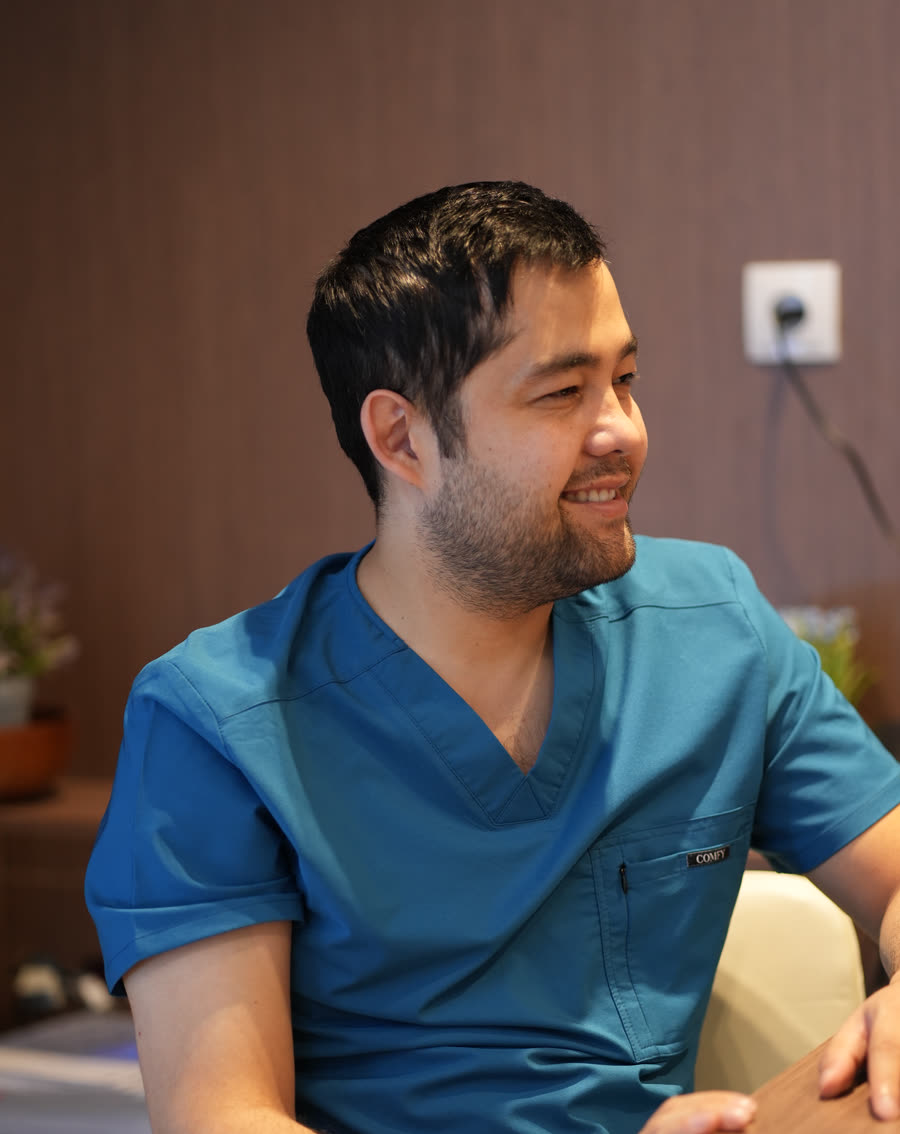
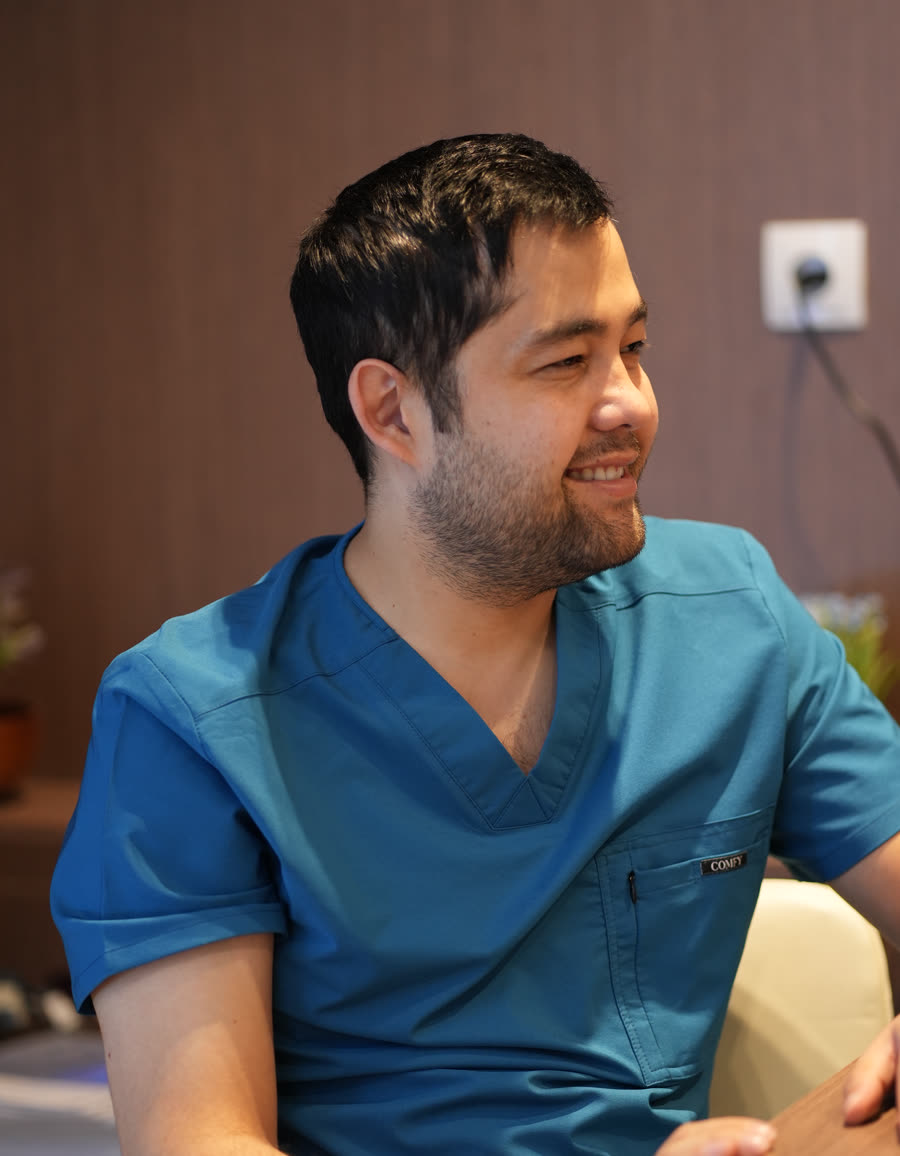
Consultation photo: midway crop

diff --git a/site/index.html b/site/index.html
@@ -119,7 +119,7 @@
   <p class="eyebrow" data-i18n="w_eye">Usul</p>
   <h2 data-i18n="w_h">Nega chandiqsiz jarrohlik?</h2>
   <div class="strip" aria-hidden="true">
-    <img src="img/jarrohlik3.jpg" alt="" loading="lazy" width="900" height="1134">
+    <img src="img/jarrohlik3.jpg" alt="" loading="lazy" width="900" height="1156">
     <img src="img/jarrohlik2.jpg" alt="" loading="lazy" width="900" height="1350">
     <img src="img/jarrohlik1.jpg" alt="" loading="lazy" width="900" height="1200">
   </div>
